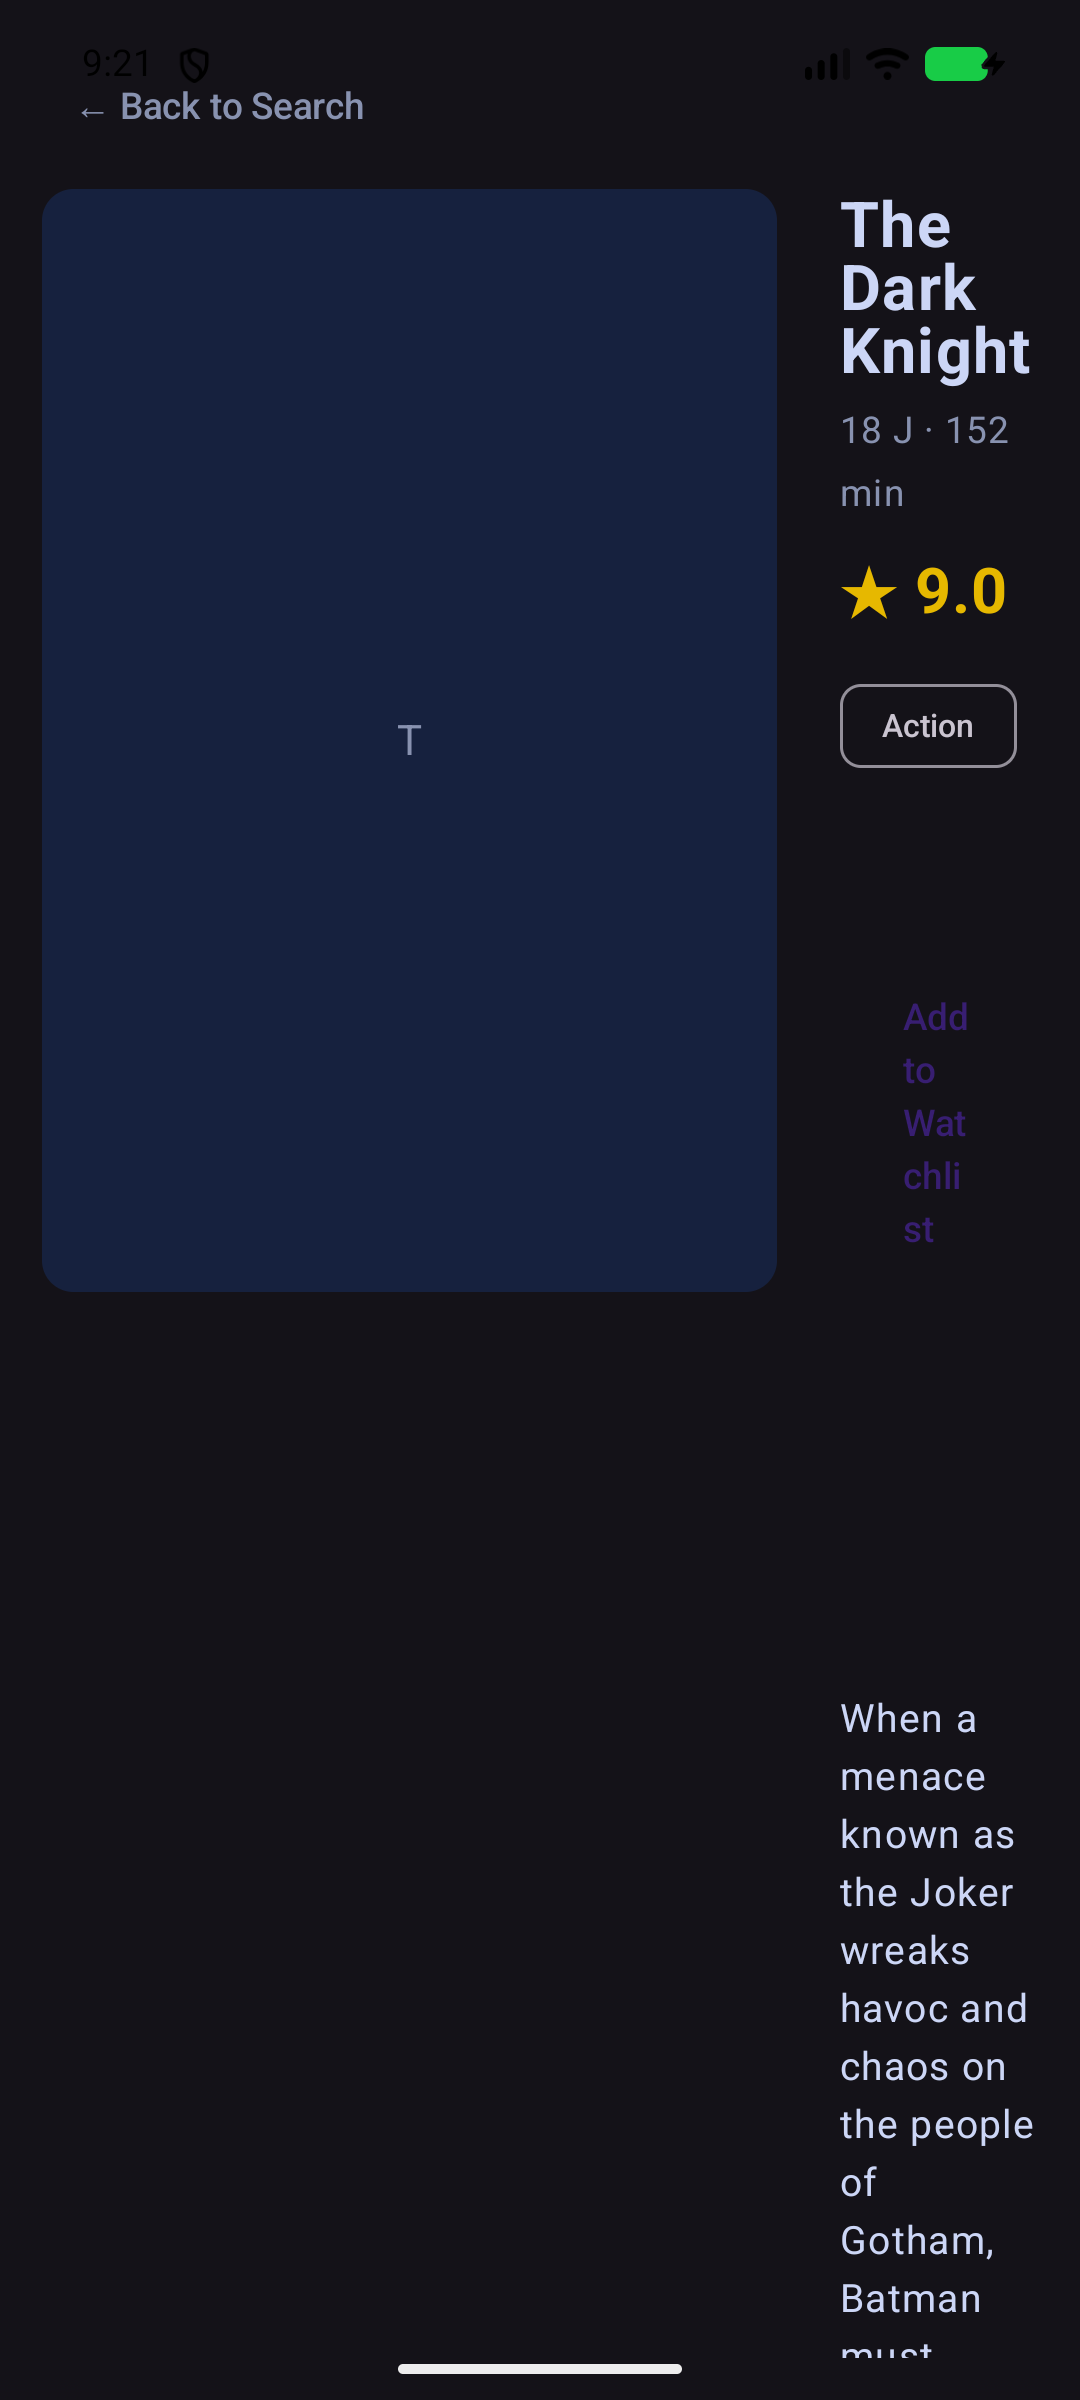
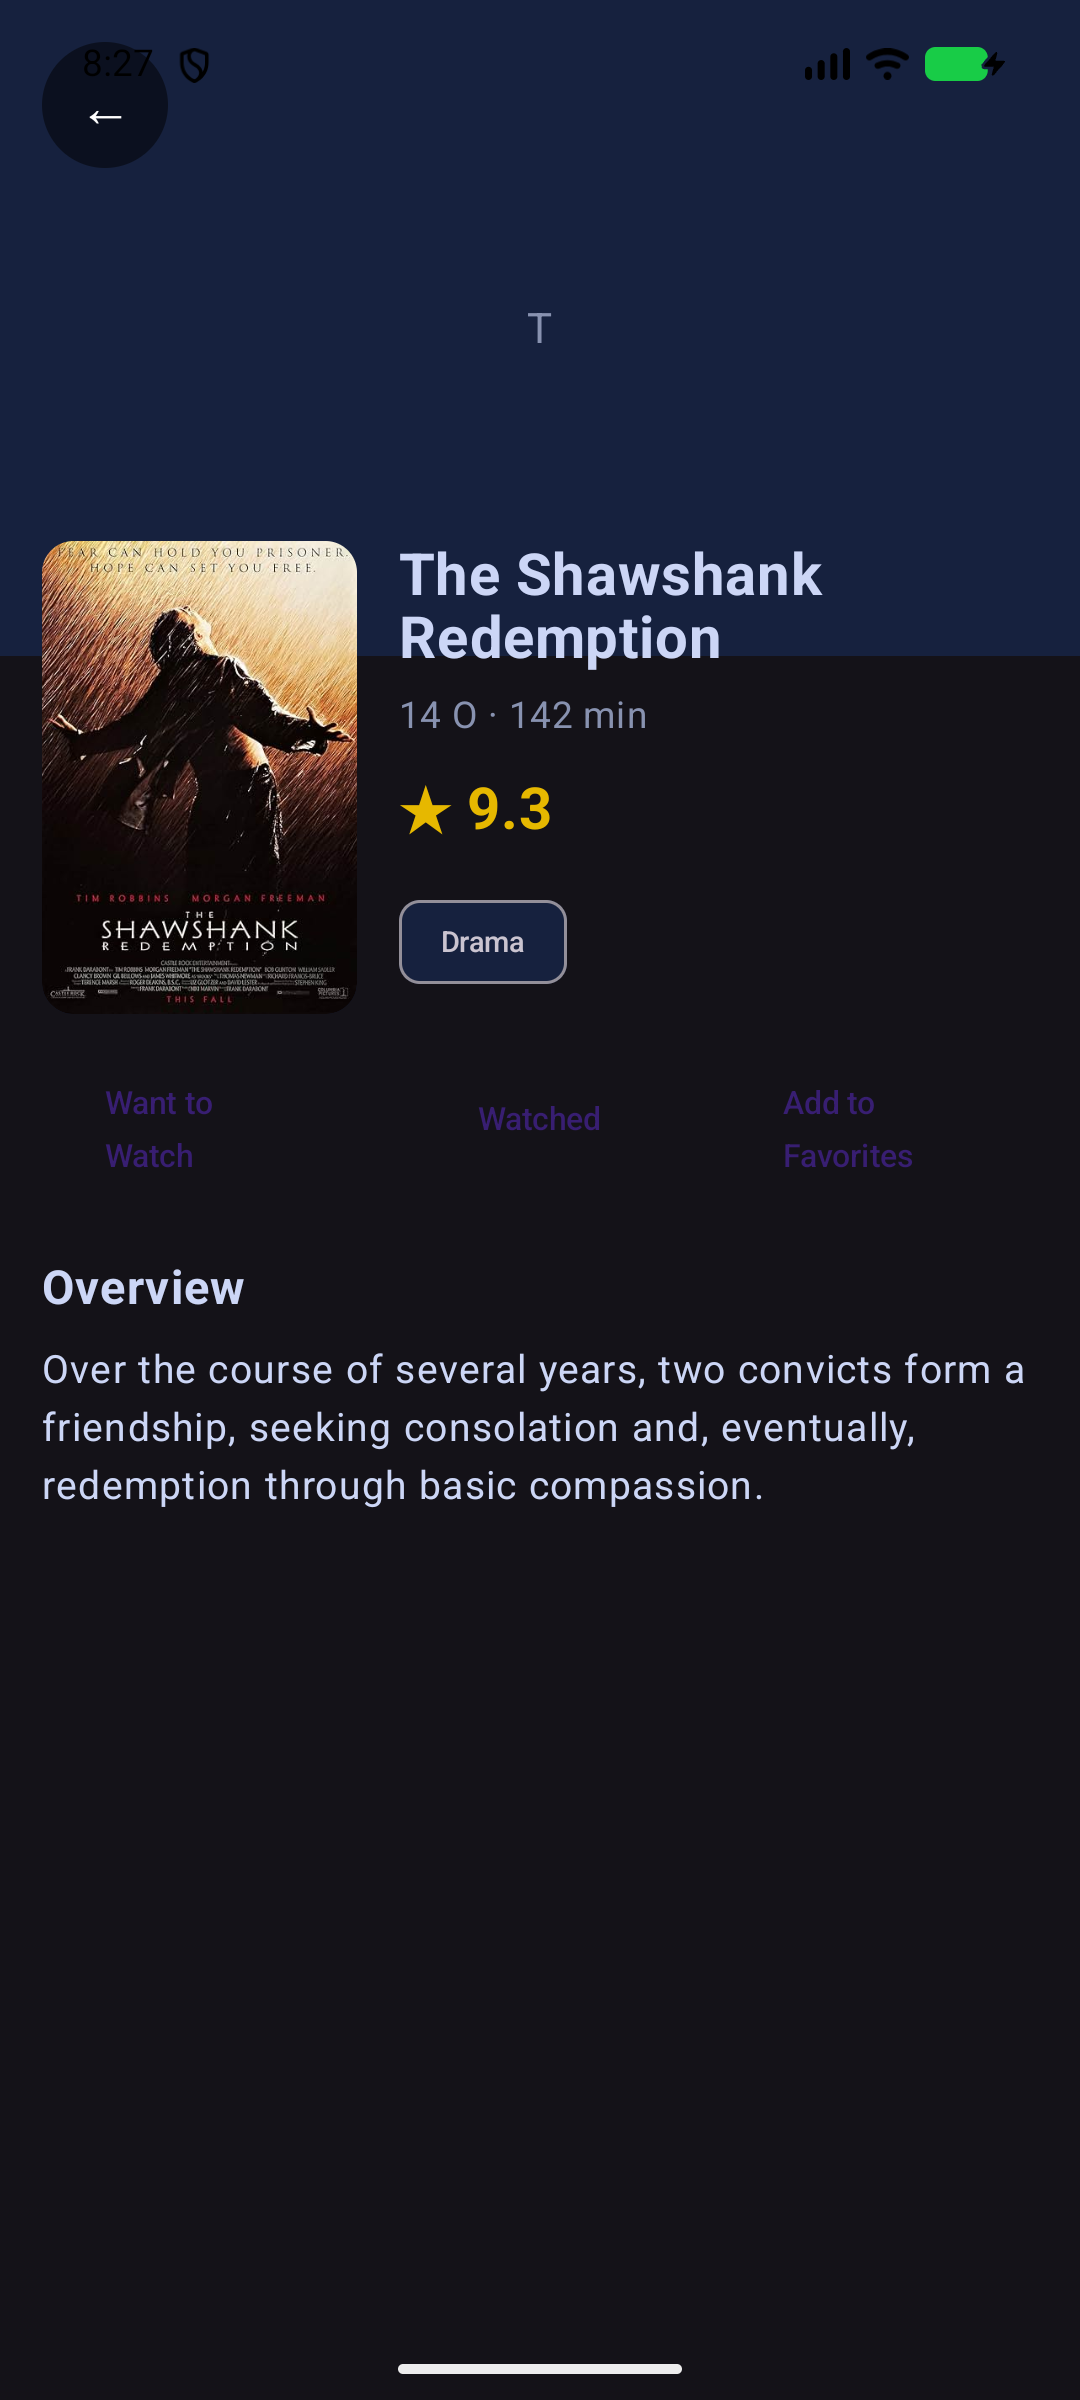
Fix image loading across platforms and update Android screenshots
- Android: add allowHardware(false) for Coil compatibility
- Desktop: replace text placeholder with Ktor image loading
- WasmJS: better placeholder with initials
- Updated Android screenshots with working poster images

diff --git a/films-app/shared/src/desktopMain/kotlin/com/films/shared/ui/AsyncImage.kt b/films-app/shared/src/desktopMain/kotlin/com/films/shared/ui/AsyncImage.kt
@@ -1,10 +1,22 @@
 package com.films.shared.ui
 
+import androidx.compose.foundation.Image
 import androidx.compose.foundation.background
 import androidx.compose.foundation.layout.Box
 import androidx.compose.runtime.Composable
+import androidx.compose.runtime.LaunchedEffect
+import androidx.compose.runtime.getValue
+import androidx.compose.runtime.mutableStateOf
+import androidx.compose.runtime.remember
+import androidx.compose.runtime.setValue
 import androidx.compose.ui.Alignment
 import androidx.compose.ui.Modifier
+import androidx.compose.ui.graphics.ImageBitmap
+import androidx.compose.ui.layout.ContentScale
+import androidx.compose.ui.res.loadImageBitmap
+import io.ktor.client.HttpClient
+import io.ktor.client.request.get
+import io.ktor.client.statement.readBytes
 
 @Composable
 actual fun AsyncImage(
@@ -12,6 +24,55 @@ actual fun AsyncImage(
     contentDescription: String?,
     modifier: Modifier
 ) {
+    val imageUrl = getImageUrl(url)
+    var bitmap by remember { mutableStateOf<ImageBitmap?>(null) }
+    var isError by remember { mutableStateOf(false) }
+
+    LaunchedEffect(imageUrl) {
+        if (imageUrl == null) {
+            isError = true
+            return@LaunchedEffect
+        }
+        try {
+            val client = HttpClient()
+            val bytes = client.get(imageUrl).readBytes()
+            client.close()
+            bitmap = loadImageBitmap(bytes.inputStream())
+        } catch (e: Exception) {
+            isError = true
+        }
+    }
+
+    if (bitmap != null) {
+        Image(
+            bitmap = bitmap!!,
+            contentDescription = contentDescription,
+            modifier = modifier.background(DarkSurface),
+            contentScale = ContentScale.Crop,
+        )
+    } else if (isError) {
+        PlaceholderImage(contentDescription, modifier)
+    } else {
+        Box(
+            modifier = modifier.background(DarkSurface),
+            contentAlignment = Alignment.Center
+        ) {
+            androidx.compose.material3.Text(
+                text = "...",
+                color = Muted,
+            )
+        }
+    }
+}
+
+private fun getImageUrl(path: String?): String? {
+    if (path == null) return null
+    if (path.startsWith("http")) return path
+    return "https://image.tmdb.org/t/p/w500$path"
+}
+
+@Composable
+private fun PlaceholderImage(contentDescription: String?, modifier: Modifier) {
     Box(
         modifier = modifier.background(DarkSurface),
         contentAlignment = Alignment.Center

diff --git a/films-app/shared/src/wasmJsMain/kotlin/com/films/shared/ui/AsyncImage.kt b/films-app/shared/src/wasmJsMain/kotlin/com/films/shared/ui/AsyncImage.kt
@@ -2,9 +2,13 @@ package com.films.shared.ui
 
 import androidx.compose.foundation.background
 import androidx.compose.foundation.layout.Box
+import androidx.compose.foundation.layout.fillMaxSize
+import androidx.compose.material3.Text
 import androidx.compose.runtime.Composable
 import androidx.compose.ui.Alignment
 import androidx.compose.ui.Modifier
+import androidx.compose.ui.text.style.TextAlign
+import androidx.compose.ui.unit.sp
 
 @Composable
 actual fun AsyncImage(
@@ -16,9 +20,11 @@ actual fun AsyncImage(
         modifier = modifier.background(DarkSurface),
         contentAlignment = Alignment.Center
     ) {
-        androidx.compose.material3.Text(
-            text = contentDescription?.take(1) ?: "?",
+        Text(
+            text = contentDescription?.take(2) ?: "?",
             color = Muted,
+            fontSize = 24.sp,
+            textAlign = TextAlign.Center,
         )
     }
 }

diff --git a/films-app/shared/src/androidMain/kotlin/com/films/shared/ui/AsyncImage.kt b/films-app/shared/src/androidMain/kotlin/com/films/shared/ui/AsyncImage.kt
@@ -24,10 +24,17 @@ actual fun AsyncImage(
             model = ImageRequest.Builder(context)
                 .data(imageUrl)
                 .crossfade(true)
+                .allowHardware(false)
                 .build(),
             contentDescription = contentDescription,
             modifier = modifier.background(DarkSurface),
             contentScale = ContentScale.Crop,
+            onError = {
+                // Image failed to load, Coil shows placeholder automatically
+            },
+            onSuccess = {
+                // Image loaded successfully
+            },
         )
     } else {
         PlaceholderImage(contentDescription, modifier)